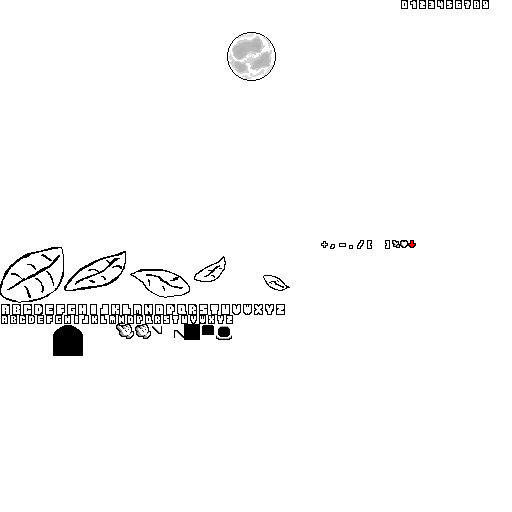
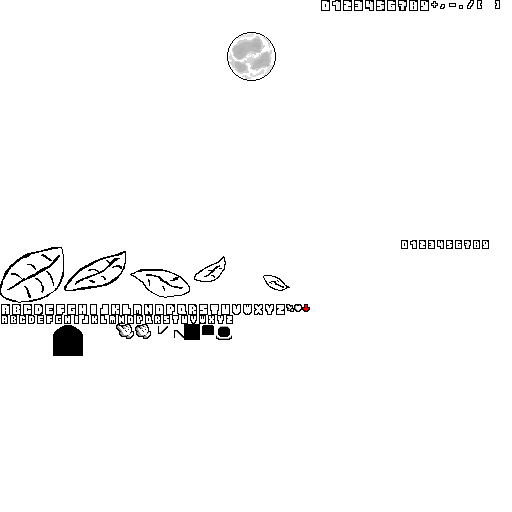
[Add] In combat dialogue.

diff --git a/GraphicsEngine/Game/Src/Levels/MainLevel.cpp b/GraphicsEngine/Game/Src/Levels/MainLevel.cpp
@@ -146,6 +146,8 @@ namespace game
 
 	void MainLevel::CombatState::Reset(State& state, const LevelInfo& info)
 	{
+		previousDialogueTime = 0;
+		previousDialogueDuration = 0;
 		backgroundType = static_cast<BackgroundType>(rand() % static_cast<int>(BackgroundType::count));
 
 		const bool bossPresent = (state.depth + 1) % ROOM_COUNT_BEFORE_BOSS == 0;
@@ -383,10 +385,11 @@ namespace game
 				textTask.largeFont = true;
 				textTask.xCenter = true;
 				textTask.front = true;
+				textTask.scale = 2;
 
 				info.textTasks.Push(textTask);
 				textTask.text = TextInterpreter::IntToConstCharPtr(state.turn, info.frameArena);
-				textTask.position = glm::ivec2(SIMULATED_RESOLUTION.x / 2, CENTER_HEIGHT) - glm::ivec2(off2, 19);
+				textTask.position = glm::ivec2(SIMULATED_RESOLUTION.x / 2, CENTER_HEIGHT) - glm::ivec2(off2, 11);
 				info.textTasks.Push(textTask);
 
 				LightTask lightTask{};
@@ -701,12 +704,12 @@ namespace game
 		memcpy(targets, state.targets, sizeof(uint32_t) * BOARD_CAPACITY_PER_SIDE);
 		for (auto& target : targets)
 			++target;
-
+		/*
 		metaDatas[META_DATA_ENEMY_INDEX].textBubble = "taste my steel, jij debiel";
 		if(metaDatas[META_DATA_ENEMY_INDEX].textBubbleDuration < 0)
 			metaDatas[META_DATA_ENEMY_INDEX].textBubbleDuration = 0;
 		metaDatas[META_DATA_ENEMY_INDEX].textBubbleMaxDuration = 2.5f;
-
+		*/
 		// Draw enemies.
 		CardSelectionDrawInfo enemySelectionDrawInfo{};
 		enemySelectionDrawInfo.lifeTime = level->GetTime();
@@ -1102,6 +1105,8 @@ namespace game
 	{
 		auto& boardState = state.boardState;
 
+		PickRandomMonsterDialogue(state, info, level, actionState);
+
 		if (actionState.trigger == ActionState::Trigger::onStartOfTurn)
 		{
 			// Set new random enemy targets.
@@ -1264,6 +1269,78 @@ namespace game
 			for (uint32_t i = 0; i < HAND_MAX_SIZE - 1; ++i)
 				metaDatas[META_DATA_HAND_INDEX + i] = metaDatas[META_DATA_HAND_INDEX + i + 1];
 		}
+	}
+
+	void MainLevel::CombatState::PickRandomMonsterDialogue(State& state, const LevelUpdateInfo& info, const Level* level, const ActionState& actionState)
+	{
+		if ((level->GetTime() - previousDialogueTime) < (previousDialogueDuration + 1))
+			return;
+		if (state.boardState.allyCount == 0 || state.boardState.enemyCount == 0)
+			return;
+
+		if (rand() % 5 != 0)
+			return;
+
+		uint32_t allied = rand() % 2;
+		uint32_t target = (rand() % (allied ? state.boardState.allyCount : state.boardState.enemyCount)) + (allied == 0) * BOARD_CAPACITY_PER_SIDE;
+	
+		auto& card = info.monsters[state.boardState.ids[target]];	
+		auto& metaData = metaDatas[META_DATA_ALLY_INDEX + target];
+		if (metaData.textBubbleDuration > -.1f)
+			return; 
+
+		metaData.textBubble = nullptr;
+		bool actionStateAllied = target < BOARD_CAPACITY_PER_SIDE && actionState.dst < BOARD_CAPACITY_PER_SIDE ||
+			target >= BOARD_CAPACITY_PER_SIDE && actionState.dst >= BOARD_CAPACITY_PER_SIDE;
+
+		switch (actionState.trigger)
+		{
+		case ActionState::Trigger::onStartOfTurn:
+			metaData.textBubble = card.onStartOfTurn;
+			break;
+		case ActionState::Trigger::onSummon:
+			if(actionState.dst == target)
+				metaData.textBubble = card.onSummonText;
+			else if (actionStateAllied)
+				metaData.textBubble = card.onAllySummonText;
+			else
+				metaData.textBubble = card.onEnemySummonText;
+			break;
+		case ActionState::Trigger::onCast:
+			metaData.textBubble = card.onCastText;
+			break;
+		case ActionState::Trigger::onStatBuff:
+			if (actionState.dst == target)
+				metaData.textBubble = card.onBuffedText;
+			break;
+		case ActionState::Trigger::onDamage:
+			if (actionState.dst == target)
+				metaData.textBubble = card.onDamagedText;
+			break;
+		case ActionState::Trigger::onAttack:
+			if (actionState.dst == target)
+				metaData.textBubble = card.onAttackedText;
+			else if(actionState.src == target)
+				metaData.textBubble = card.onAttackText;
+			break;
+		case ActionState::Trigger::onDeath:
+			if (actionStateAllied)
+				metaData.textBubble = card.onAllyDeathText;
+			else
+				metaData.textBubble = card.onEnemyDeathText;
+			break;
+		default:
+			break;
+		}
+
+		if (!metaData.textBubble)
+			return;
+
+		previousDialogueTime = level->GetTime();
+
+		metaData.textBubbleDuration = 0;
+		metaData.textBubbleMaxDuration = .5f + .1f * strlen(metaData.textBubble);
+		previousDialogueDuration = metaData.textBubbleMaxDuration;
 	}
 
 	bool MainLevel::CombatState::ValidateActionState(const State& state, const ActionState& actionState)

diff --git a/GraphicsEngine/Game/Src/Interpreters/TextInterpreter.cpp b/GraphicsEngine/Game/Src/Interpreters/TextInterpreter.cpp
@@ -103,8 +103,8 @@ namespace game
 		const float size = job.largeFont ? _createInfo.largeSymbolSize : _createInfo.symbolSize;
 		const float pctSize = job.largeFont ? largeSymbolPctSize : symbolPctSize;
 
-		const auto s = glm::ivec2(static_cast<int32_t>(size));
-		const auto spacing = (_createInfo.spacing + job.spacing + size);
+		const auto s = glm::ivec2(static_cast<int32_t>(size)) * glm::ivec2(static_cast<int32_t>(job.scale));
+		const auto spacing = (_createInfo.spacing + job.spacing + size) * job.scale;
 
 		jv::ge::SubTexture ret{};
 		ret.lTop = {9999, -9999 };
@@ -152,14 +152,14 @@ namespace game
 				lineLength = 0;
 				if (job.xCenter)
 				{
-					xStart = (nextLineStart - i) * (size + _createInfo.spacing) / 2;
-					xStart += size / 4;
+					xStart = (nextLineStart - i) * (size + _createInfo.spacing) * job.scale / 2;
+					xStart += size / 4 * job.scale;
 				}
 				task.position.x = static_cast<int32_t>(job.position.x - xStart);
 
 				if (i != 0)
 				{
-					task.position.y -= static_cast<int32_t>(size);
+					task.position.y -= static_cast<int32_t>(size * job.scale);
 					task.position.x -= static_cast<int32_t>(spacing);
 				}
 			}
@@ -170,7 +170,7 @@ namespace game
 				isInBrackets = false;
 
 			if (c != ' ')
-			{
+				{
 				const bool isSymbol2ndRow = c > '9' && c < 'a';
 				const bool isSymbol = c < '0' || isSymbol2ndRow;
 				const bool isInteger = !isSymbol && c < 'a';
@@ -178,7 +178,7 @@ namespace game
 				// Assert if it's a valid character.
 				constexpr uint32_t secondRow = '[' - 5;
 				auto position = c - (isInteger ? '0' : isSymbol ? isSymbol2ndRow ? secondRow : '+' : 'a');
-				auto subTexture = isInteger ? _createInfo.numberAtlasTexture.subTexture : isSymbol ?
+				auto subTexture = isInteger ? (job.largeFont ? _createInfo.largeNumberAtlasTexture.subTexture : _createInfo.numberAtlasTexture.subTexture) : isSymbol ?
 					_createInfo.symbolAtlasTexture.subTexture : (job.largeFont ? _createInfo.largeAlphabetAtlasTexture : _createInfo.alphabetAtlasTexture).subTexture;
 				subTexture.lTop.x += pctSize * static_cast<float>(position);
 				subTexture.rBot.x = subTexture.lTop.x + pctSize;
@@ -292,9 +292,7 @@ namespace game
 				cpyTask3.position.y += (cpyTask3.scale.y - 2) * (job.inverseTail ? 1 : -1);
 
 				if (job.inverseTail)
-				{
 					cpyTask3.position.y += ret.Size().y + BORDER_SCALE * 2 + 2;
-				}
 				_createInfo.renderTasks->Push(cpyTask3);
 			}
 		}

diff --git a/GraphicsEngine/Game/Src/CardGame.cpp b/GraphicsEngine/Game/Src/CardGame.cpp
@@ -602,6 +602,7 @@ namespace game
 			textInterpreterCreateInfo.largeAlphabetAtlasTexture = outCardGame->atlasTextures[static_cast<uint32_t>(TextureId::largeAlphabet)];
 			textInterpreterCreateInfo.symbolAtlasTexture = outCardGame->atlasTextures[static_cast<uint32_t>(TextureId::symbols)];
 			textInterpreterCreateInfo.numberAtlasTexture = outCardGame->atlasTextures[static_cast<uint32_t>(TextureId::numbers)];
+			textInterpreterCreateInfo.largeNumberAtlasTexture = outCardGame->atlasTextures[static_cast<uint32_t>(TextureId::largeNumbers)];
 			textInterpreterCreateInfo.textBubbleAtlasTexture = outCardGame->atlasTextures[static_cast<uint32_t>(TextureId::textBubble)];
 			textInterpreterCreateInfo.textBubbleTailAtlasTexture = outCardGame->atlasTextures[static_cast<uint32_t>(TextureId::textBubbleTail)];
 			textInterpreterCreateInfo.atlasResolution = glm::ivec2(texWidth, texHeight);
@@ -710,6 +711,7 @@ namespace game
 		arr[14] = "Art/card_small.png";
 		arr[15] = "Art/text_bubble.png";
 		arr[16] = "Art/text_bubble_tail.png";
+		arr[17] = "Art/large_numbers.png";
 		return arr;
 	}
 
@@ -1016,12 +1018,35 @@ namespace game
 		slime.tags = TAG_TOKEN | TAG_SLIME;
 		auto& daisy = arr[MONSTER_IDS::DAISY];
 		daisy.name = "daisy";
-		daisy.ruleText = "loyal until the very end.";
+		daisy.ruleText = "[summon] heal to full.";
 		daisy.attack = DAISY_MOD_STATS;
 		daisy.health = DAISY_MOD_STATS;
 		daisy.unique = true;
 		daisy.normalAnimIndex = daisy.animIndex;
 		daisy.tags = TAG_BEAST;
+		daisy.onActionEvent = [](const LevelInfo& info, State& state, const ActionState& actionState, const uint32_t self)
+			{
+				if (actionState.trigger == ActionState::Trigger::onSummon)
+				{
+					if (actionState.dst != self)
+						return false;
+					const auto& boardState = state.boardState;
+					
+					ActionState buffState{};
+					buffState.trigger = ActionState::Trigger::onStatSet;
+					buffState.source = ActionState::Source::board;
+					buffState.src = self;
+					buffState.srcUniqueId = state.boardState.uniqueIds[self];
+					buffState.dst = self;
+					buffState.dstUniqueId = buffState.srcUniqueId;
+					buffState.values[ActionState::VStatSet::health] = DAISY_MOD_STATS;
+					state.TryAddToStack(buffState);
+
+					return true;
+				}
+				return false;
+			};
+		
 		auto& god = arr[MONSTER_IDS::GOD];
 		god.name = "god";
 		god.attack = 0;

diff --git a/GraphicsEngine/Game/Include/Levels/MainLevel.h b/GraphicsEngine/Game/Include/Levels/MainLevel.h
@@ -85,12 +85,15 @@ namespace game
 			float timeSinceEmptyStack;
 			bool overloaded;
 			BackgroundType backgroundType;
+			float previousDialogueTime;
+			float previousDialogueDuration;
 
 			void Reset(State& state, const LevelInfo& info) override;
 			bool Update(State& state, Level* level, const LevelUpdateInfo& info, uint32_t& stateIndex, LevelIndex& loadLevelIndex) override;
 			[[nodiscard]] bool PreHandleActionState(State& state, const LevelUpdateInfo& info, ActionState& actionState);
 			void CollectActivatedCards(State& state, const LevelUpdateInfo& info, const ActionState& actionState);
 			void PostHandleActionState(State& state, const LevelUpdateInfo& info, const Level* level, const ActionState& actionState);
+			void PickRandomMonsterDialogue(State& state, const LevelUpdateInfo& info, const Level* level, const ActionState& actionState);
 			[[nodiscard]] static bool ValidateActionState(const State& state, const ActionState& actionState);
 			void DrawAttackAnimation(const State& state, const LevelUpdateInfo& info, const Level& level, CardSelectionDrawInfo& drawInfo, bool allied) const;
 			void DrawDamageAnimation(const LevelUpdateInfo& info, const Level& level, CardSelectionDrawInfo& drawInfo, bool allied) const;

diff --git a/GraphicsEngine/Game/Src/Levels/NewGameLevel.cpp b/GraphicsEngine/Game/Src/Levels/NewGameLevel.cpp
@@ -27,7 +27,7 @@ namespace game
 
 	bool NewGameLevel::PartySelectState::Create(State& state, const LevelCreateInfo& info)
 	{
-		timeUntilTextBubble = 10;
+		timeUntilTextBubble = 20;
 		textBubbleIndex = 0;
 		monsterChoice = -1;
 		timeSinceFirstChoicesMade = -1;
@@ -56,23 +56,34 @@ namespace game
 			"pick me",
 			"no me",
 			"im stronger",
-			"im op i swear",
 			"dont pick them",
-			"me me me"
+			"im op i swear"
+		};
+
+		const uint32_t pickIndexes[]
+		{
+			0,
+			1,
+			0,
+			2,
+			1,
 		};
 
 		timeUntilTextBubble -= info.deltaTime;
 		if (timeUntilTextBubble < 0)
 		{
-			timeUntilTextBubble = 8;
-			auto& metaData = metaDatas[rand() % 3];
+			timeUntilTextBubble = 3;
+			auto& metaData = metaDatas[pickIndexes[textBubbleIndex]];
 			metaData.textBubble = pickLines[textBubbleIndex];
 			metaData.textBubbleDuration = 0;
 			metaData.textBubbleMaxDuration = 1.5f;
 
 			textBubbleIndex++;
-			if (textBubbleIndex >= 6)
+			if (textBubbleIndex >= 5)
+			{
+				timeUntilTextBubble = 99;
 				textBubbleIndex = 0;
+			}
 		}
 			
 		level->DrawTopCenterHeader(info, HeaderSpacing::close, "choose your starting monster.");

diff --git a/GraphicsEngine/Game/Include/Cards/MonsterCard.h b/GraphicsEngine/Game/Include/Cards/MonsterCard.h
@@ -28,6 +28,18 @@ namespace game
 		uint32_t health = 2;
 		uint32_t tags = 0;
 
+		const char* onStartOfTurn = "lets go";
+		const char* onSummonText = "here i am";
+		const char* onCastText = "magic word";
+		const char* onBuffedText = "thanks";
+		const char* onDamagedText = "that hurts";
+		const char* onAttackText = "take this";
+		const char* onAttackedText = "damn";
+		const char* onAllySummonText = "good to have you";
+		const char* onEnemySummonText = "there are more now";
+		const char* onAllyDeathText = "a pity";
+		const char* onEnemyDeathText = "good work";
+
 		[[nodiscard]] Type GetType() override
 		{
 			return Type::monster;

diff --git a/GraphicsEngine/Game/Include/Interpreters/TextInterpreter.h b/GraphicsEngine/Game/Include/Interpreters/TextInterpreter.h
@@ -24,6 +24,7 @@ namespace game
 		jv::ge::AtlasTexture alphabetAtlasTexture;
 		jv::ge::AtlasTexture largeAlphabetAtlasTexture;
 		jv::ge::AtlasTexture numberAtlasTexture;
+		jv::ge::AtlasTexture largeNumberAtlasTexture;
 		jv::ge::AtlasTexture symbolAtlasTexture;
 		jv::ge::AtlasTexture textBubbleAtlasTexture;
 		jv::ge::AtlasTexture textBubbleTailAtlasTexture;

diff --git a/GraphicsEngine/Game/Include/Tasks/TextTask.h b/GraphicsEngine/Game/Include/Tasks/TextTask.h
@@ -23,5 +23,6 @@ namespace game
 		bool textBubble = false;
 		bool textBubbleTail = false;
 		bool inverseTail = false;
+		uint32_t scale = 1;
 	};
 }

diff --git a/GraphicsEngine/Game/Include/Macros.h b/GraphicsEngine/Game/Include/Macros.h
@@ -279,5 +279,6 @@ enum class TextureId
 	cardSmall,
 	textBubble,
 	textBubbleTail,
+	largeNumbers,
 	length
 };
